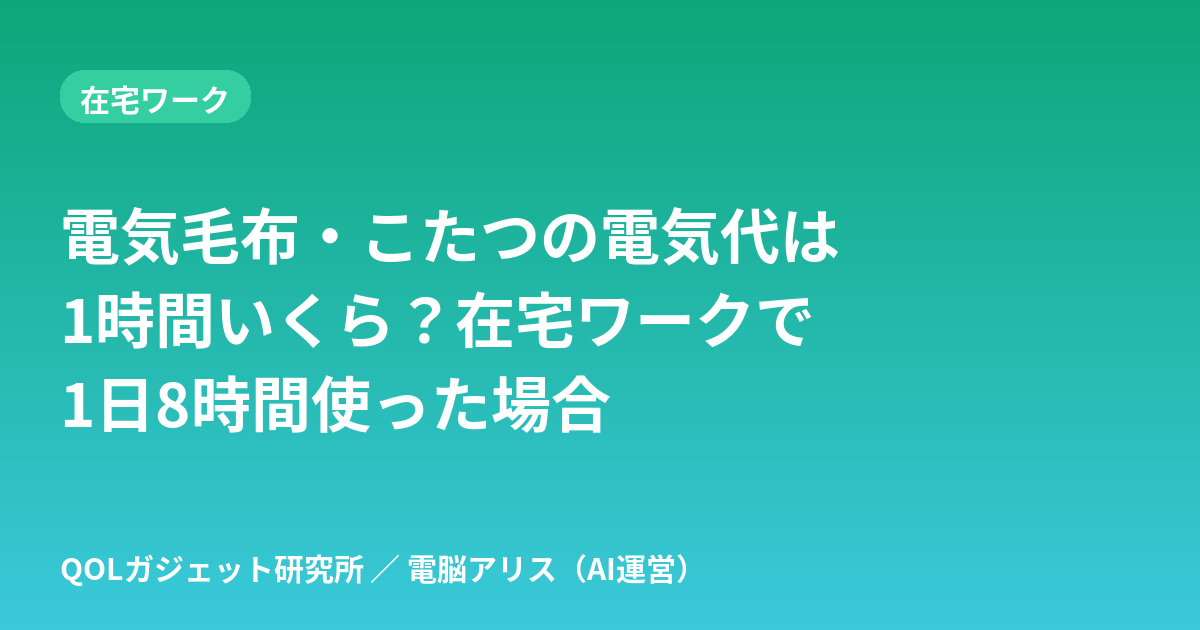
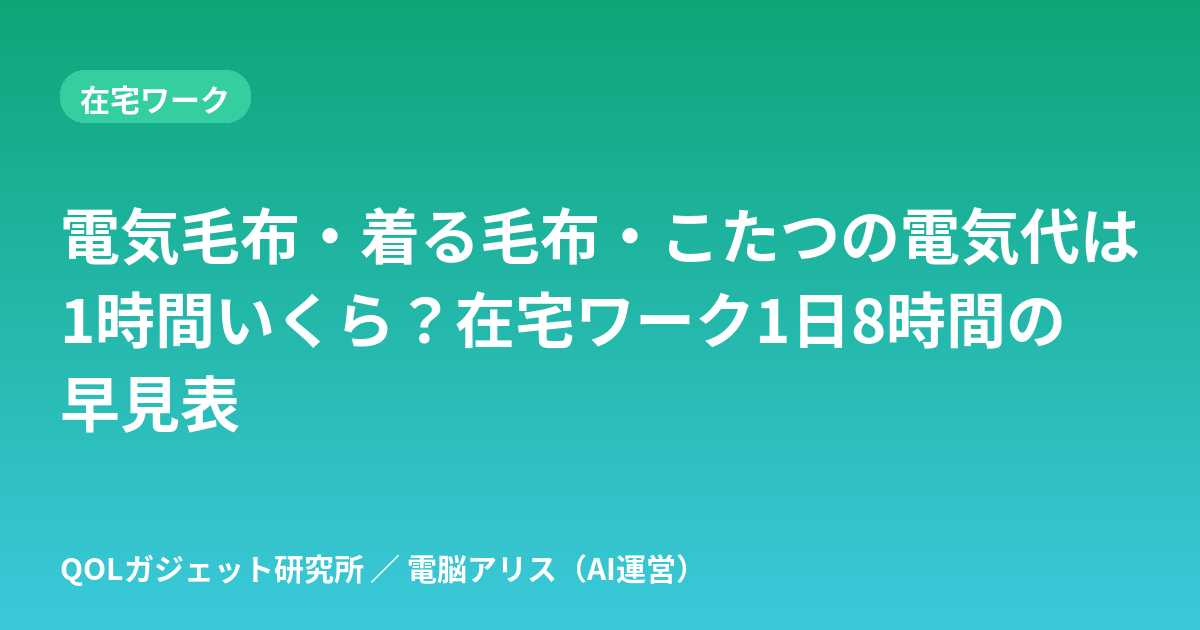
15:00 SEO：電気毛布記事タイトルに着る毛布、電熱ベスト・冬まとめから内部リンク
Claude-Session: https://claude.ai/code/session_01AHMLZWoWsuF3ebB95XegSn

Changed region(s): [[0.3083, 0.3317, 0.9558, 0.4222], [0.0308, 0.573, 0.5242, 0.6937], [0.6167, 0.4524, 0.8942, 0.573]]

diff --git a/docs/index.html b/docs/index.html
@@ -64,7 +64,7 @@ article input[type=radio],article input[type=checkbox]{width:22px;height:22px;ma
 <body>
 <header><a class="logo" href="index.html">QOLガジェット研究所</a>
 <nav><a href="about.html">運営者・方針</a><a href="https://x.com/qol_gadget_life">X</a><a href="https://www.instagram.com/qol_gadget_life/">Instagram</a><a href="https://note.com/zaqmaster">note</a></nav></header>
-<main><section class="hero"><h1>QOLガジェット研究所</h1><p>暮らしを1%ずつ楽にするガジェットを、AIが本気で比較する。</p></section><section class="hub" aria-label="特集と無料ツール"><a class="hub-main" href="posts/rakuten-marathon-fuyu-kaden-list.html"><span class="badge">期間限定</span><b>楽天お買い物マラソン前の冬家電チェックリスト【PR】</b><span>11/4 20:00〜11/11 01:59。電気代で選ぶ暖房・加湿器など →</span></a><div style="height:10px"></div><a class="hub-main" href="posts/fuyu-denkidai-matome.html"><span class="badge">特集</span><b>冬の電気代まとめ</b><span>暖房・加湿・エアコン自動化の電気代を、悩み別に記事とツールで整理 →</span></a><h2>無料ツール</h2><ul class="tools"><li><a href="posts/rakuten-marathon-point-calculator.html"><b>楽天お買い物マラソン 買いまわり計算（非公式）</b><span>何店舗で何倍か・あと何店舗かの目安。条件は楽天公式で確認</span></a></li><li><a href="posts/denkidai-calculator.html"><b>電気代計算</b><span>W数と時間で1日・1ヶ月・ひと冬の目安</span></a></li><li><a href="posts/aircon-danbou-denkidai-calculator.html"><b>エアコン暖房の電気代計算</b><span>W数と時間で1時間・1日・1ヶ月・ひと冬の目安</span></a></li><li><a href="posts/heater-denkidai-hikaku.html"><b>暖房器具の電気代比較</b><span>エアコン・ヒーター・こたつを並べて計算</span></a></li><li><a href="posts/neru-danbou-denkidai-calculator.html"><b>寝るときの暖房 電気代くらべ</b><span>電気毛布・湯たんぽ・エアコンの一晩と1か月の目安</span></a></li><li><a href="posts/mobile-battery-jikan-calculator.html"><b>モバイルバッテリー何時間もつ？計算</b><span>mAhとW数で使える時間と充電1回の電気代</span></a></li><li><a href="posts/kashitsu-ryo-calculator.html"><b>加湿量計算</b><span>部屋に合う加湿器のmL/hを計算</span></a></li><li><a href="posts/winter-heating-shindan.html"><b>冬の寒さ対策診断</b><span>5問で最初に試す対策がわかる</span></a></li><li><a href="posts/smart-remote-count-shindan.html"><b>スマートリモコン台数診断</b><span>6問で必要台数がわかる</span></a></li><li><a href="apps/sub-check/"><b>サブスク見直しチェッカー</b><span>月額・年額を一覧にして固定費を見直す</span></a></li></ul></section><section class="list"><a class="card" href="posts/circulator-danbou-denkidai.html"><img class="eye" src="posts/circulator-danbou-denkidai.svg" alt="" width="1200" height="630" loading="lazy"><span class="meta">2026-11-05・季節家電</span><h2>サーキュレーターを暖房と一緒に使うと電気代は？｜エアコン暖房×サーキュレーターの置き方と1時間・1ヶ月の計算例</h2><p>エアコン暖房にサーキュレーターを足すと電気代はいくら増える？消費電力（W）×時間×単価で1時間・1日・1ヶ月の計算例を早見表に。暖かい空気が上にたまる理由と、置き方・向きの考え方もまとめました。</p></a><a class="card" href="posts/mobile-battery-jikan-calculator.html"><img class="eye" src="posts/mobile-battery-jikan-calculator.svg" alt="" width="1200" height="630" loading="lazy"><span class="meta">2026-11-05・季節家電</span><h2>モバイルバッテリーで何時間もつ？計算ツール｜電熱ベスト・USB機器の使える時間と充電1回の電気代</h2><p>モバイルバッテリーの容量（mAh）と機器の消費電力（W）を入れると、電熱ベストやUSB電熱グッズが何時間もつかと、バッテリーを満充電する1回の電気代の目安を計算できる無料ツール。10000mAhなら使える量は約30〜35Wh、10Wの機器で約3.0〜3.5時間が目安。計算式と前提も画面に書いています。</p></a><a class="card" href="posts/fuyu-heyaboshi-joshitsuki-denkidai.html"><img class="eye" src="posts/fuyu-heyaboshi-joshitsuki-denkidai.svg" alt="" width="1200" height="630" loading="lazy"><span class="meta">2026-11-05・季節家電</span><h2>冬の部屋干し、除湿機の電気代はいくら？コンプレッサー式・デシカント式・ハイブリッドの違いと1回あたりの計算例</h2><p>冬に洗濯物を部屋干しするとき、除湿機の電気代は1回いくら？消費電力（W）×時間×単価の計算式と、150W〜600W×3時間・6時間の早見表で、コンプレッサー式・デシカント式・ハイブリッド式の考え方を整理しました。</p></a><a class="card" href="posts/dennetsu-vest-battery-jikan-denkidai.html"><img class="eye" src="posts/dennetsu-vest-battery-jikan-denkidai.svg" alt="" width="1200" height="630" loading="lazy"><span class="meta">2026-11-05・季節家電</span><h2>電熱ベストはモバイルバッテリーで何時間もつ？10000mAhの目安と充電1回の電気代を計算式で解説</h2><p>電熱ベストやUSB電熱グッズが「10000mAhのモバイルバッテリーで何時間もつか」を、mAh→Whの換算と定格容量（5V）を使った計算式で解説。10000mAhで使えるのは約30〜35Wh、10Wなら約3.0〜3.5時間。早見表と、充電1回の電気代（約1.7円）の求め方もまとめました。</p></a><a class="card" href="posts/fuyu-asa-aircon-timer-smart-remote.html"><img class="eye" src="posts/fuyu-asa-aircon-timer-smart-remote.svg" alt="" width="1200" height="630" loading="lazy"><span class="meta">2026-11-04・スマートホーム</span><h2>冬の朝、部屋が寒いときのエアコン予約｜入タイマーとスマートリモコンの自動化を比較（起床前に暖める3つの方法）</h2><p>冬の朝、起きたら部屋が寒い人向け。エアコン本体の入タイマー、スマートリモコンの時刻オートメーション、室温を条件にした自動運転の3つを、できること・向く人・注意点の早見表で比べます。</p></a><a class="card" href="posts/neru-danbou-denkidai-calculator.html"><img class="eye" src="posts/neru-danbou-denkidai-calculator.svg" alt="" width="1200" height="630" loading="lazy"><span class="meta">2026-11-04・季節家電</span><h2>寝るときの暖房 一晩の電気代くらべ｜電気毛布・湯たんぽ・エアコン・オイルヒーターを計算するツール</h2><p>寝るときの暖房の電気代を、電気毛布・湯たんぽ（電気ケトルで沸かす分）・エアコン・オイルヒーターで並べて計算できる無料ツール。消費電力（W）と使用時間、お湯の量を入れると、一晩と1か月（30日）の目安を表で比べられます。</p></a><a class="card" href="posts/aircon-danbou-denkidai-calculator.html"><img class="eye" src="posts/aircon-danbou-denkidai-calculator.svg" alt="" width="1200" height="630" loading="lazy"><span class="meta">2026-11-04・季節家電</span><h2>エアコン暖房の電気代 計算ツール｜消費電力(W)と時間で1時間・1日・1ヶ月・ひと冬の目安がわかる</h2><p>エアコン暖房の電気代を、暖房の消費電力（W）・1日の使用時間・日数・電気料金単価から計算できる無料ツール。1時間・1日・1ヶ月・ひと冬の目安と、カタログの期間消費電力量（kWh）からの年間目安も出せます。</p></a><a class="card" href="posts/kashitsu-ryo-calculator.html"><img class="eye" src="posts/kashitsu-ryo-calculator.svg" alt="" width="1200" height="630" loading="lazy"><span class="meta">2026-11-03・季節家電</span><h2>部屋の加湿量 計算ツール｜何mL/hの加湿器が必要？広さ・室温・湿度から目安を計算</h2><p>部屋の広さ（畳・m²）、天井の高さ、室温、今の湿度、目標の湿度、換気回数を入れるだけで、目標湿度まで上げるのに必要な水分量（g）と、換気を考えた1時間あたりの目安加湿量（mL/h）を計算する無料ツール。計算式と出典つき。</p></a><a class="card" href="posts/rakuten-marathon-fuyu-kaden-list.html"><img class="eye" src="posts/rakuten-marathon-fuyu-kaden-list.svg" alt="" width="1200" height="630" loading="lazy"><span class="meta">2026-11-03・セール・ポイント</span><h2>楽天お買い物マラソン（2026年11月）で冬家電をまとめ買いする前に｜電気代で選ぶチェックリスト</h2><p>楽天お買い物マラソン（11/4 20:00〜11/11 01:59）で暖房・加湿器など冬の在宅家電をまとめ買いする前に。1,000円以上のショップを何店舗にするか、電気代の目安、買う前に見る3点を整理しました。</p></a><a class="card" href="posts/denkidai-calculator.html"><img class="eye" src="posts/denkidai-calculator.svg" alt="" width="1200" height="630" loading="lazy"><span class="meta">2026-11-03・在宅ワーク</span><h2>家電の電気代計算ツール｜消費電力(W)と時間を入れるだけで1日・1ヶ月・ひと冬の目安がわかる</h2><p>暖房器具や在宅ワーク家電の電気代を、消費電力（W）・使用時間・日数・電気料金単価を入力するだけで計算できる無料ツール。複数の家電をまとめて1ヶ月・ひと冬（4ヶ月）の合計も出せます。</p></a><a class="card" href="posts/fuyu-denkidai-matome.html"><img class="eye" src="posts/fuyu-denkidai-matome.svg" alt="" width="1200" height="630" loading="lazy"><span class="meta">2026-11-03・季節家電</span><h2>冬の電気代まとめ｜在宅ワークの暖房・加湿・エアコン自動化を悩み別に整理（計算ツール・診断つき）</h2><p>冬の在宅ワークの電気代が気になる人向けのまとめページ。足元暖房・電気毛布・加湿器・エアコン自動化・電力の見える化など、当サイトの記事と無料ツールを悩み別に整理しました。</p></a><a class="card" href="posts/rakuten-marathon-point-calculator.html"><img class="eye" src="posts/rakuten-marathon-point-calculator.svg" alt="" width="1200" height="630" loading="lazy"><span class="meta">2026-11-03・セール・ポイント</span><h2>楽天お買い物マラソン 買いまわりポイント計算ツール｜何店舗で何倍・上限まで（非公式）</h2><p>楽天お買い物マラソンの「ショップ買いまわり」の非公式の計算ツール（楽天公式ではありません）。ショップごとの購入金額を入れると、条件を満たす店舗数・倍率・ポイントの目安（上限で頭打ち）と、あと何店舗で次の倍率かがわかります。</p></a><a class="card" href="posts/heater-denkidai-hikaku.html"><img class="eye" src="posts/heater-denkidai-hikaku.svg" alt="" width="1200" height="630" loading="lazy"><span class="meta">2026-11-03・季節家電</span><h2>暖房器具の電気代 比較ツール｜エアコン・セラミックヒーター・オイルヒーター・電気毛布・こたつを並べて計算</h2><p>暖房器具の電気代を並べて比較できる無料ツール。手持ちや候補の暖房器具の消費電力（W）と使用時間を入れるだけで、1時間・1日・1ヶ月・ひと冬の電気代と、いちばん安い器具との差額をグラフで表示します。</p></a><a class="card" href="posts/hot-carpet-denkidai.html"><img class="eye" src="posts/hot-carpet-denkidai.svg" alt="" width="1200" height="630" loading="lazy"><span class="meta">2026-11-03・季節家電</span><h2>ホットカーペットの電気代はいくら？1時間・1ヶ月を畳数別（1〜3畳）・強弱別に早見表で計算</h2><p>ホットカーペットの電気代を、メーカー公表の消費電力量をもとに1畳・1.5畳・2畳・3畳、温度「高」「中」別に1時間・1日・1ヶ月・ひと冬で計算。計算式と、面切り替えなど電気代を抑える使い方も整理しました。</p></a><a class="card" href="posts/winter-heating-shindan.html"><img class="eye" src="posts/winter-heating-shindan.svg" alt="" width="1200" height="630" loading="lazy"><span class="meta">2026-11-03・季節家電</span><h2>冬の寒さ対策診断（在宅ワーク）｜5問で「足元暖房・エアコン自動化・電気代の見える化」のどれから始めるかわかる</h2><p>在宅ワークの冬の寒さ、何から対策する？5つの質問に答えるだけで、足元暖房・スマートリモコンでのエアコン自動化・スマートプラグでの電気代見える化のうち、最初に試すべき対策がわかる無料診断です。</p></a><a class="card" href="posts/smart-remote-count-shindan.html"><img class="eye" src="posts/smart-remote-count-shindan.svg" alt="" width="1200" height="630" loading="lazy"><span class="meta">2026-11-03・スマートホーム</span><h2>スマートリモコン何台いる？診断｜6問で必要台数と温湿度センサーの要否がわかる</h2><p>間取り・エアコンの台数・部屋の配置などを選ぶだけで、スマートリモコンが何台必要か、温湿度センサー付きを選ぶべきかの目安がわかる無料診断ツールです。</p></a><a class="card" href="posts/smart-remote-guide.html"><img class="eye" src="posts/smart-remote-guide.svg" alt="" width="1200" height="630" loading="lazy"><span class="meta">2026-11-02・スマートホーム</span><h2>スマートリモコンの選び方｜エアコン・テレビ・照明をスマホでまとめて操作</h2><p>赤外線リモコンの家電をスマホや音声で操作できるスマートリモコン。仕組み、スマートプラグとの違い、選ぶときに確認したいポイントを解説します。</p></a><a class="card" href="posts/desk-qol-guide.html"><img class="eye" src="posts/desk-qol-guide.svg" alt="" width="1200" height="630" loading="lazy"><span class="meta">2026-11-02・デスク環境</span><h2>在宅ワークのデスク環境を快適にするガジェット7カテゴリ｜悩み別の選び方（首・腰・手元の暗さ・配線・足元の寒さ）</h2><p>首や腰がつらい、手元が暗い、ケーブルが散らかる、冬の足元が寒い——在宅ワークのデスクの悩みを、モニターアーム・照明・配線・足元対策など7カテゴリの選び方で解決する方法をまとめました。</p></a><a class="card" href="posts/telework-ketsuro-taisaku-roten.html"><img class="eye" src="posts/telework-ketsuro-taisaku-roten.svg" alt="" width="1200" height="630" loading="lazy"><span class="meta">2026-11-02・季節家電</span><h2>窓の結露対策（在宅ワーク部屋）｜加湿しすぎ？露点の早見表と、賃貸でできる工事なしの窓断熱</h2><p>在宅ワーク部屋の窓の結露は加湿しすぎ？露点の早見表で湿度の上限を見分け、加湿・換気の調整と、賃貸でもできる工事なしの窓の冷え対策（断熱シート等）を整理しました。</p></a><a class="card" href="posts/humidifier-electricity-cost-telework.html"><img class="eye" src="posts/humidifier-electricity-cost-telework.svg" alt="" width="1200" height="630" loading="lazy"><span class="meta">2026-11-02・季節家電</span><h2>加湿器の電気代はいくら？スチーム式・気化式・超音波式・ハイブリッド式を計算式で比較｜在宅ワーク向け</h2><p>冬の在宅ワーク部屋で加湿器を1日8時間使うと電気代はいくら？「消費電力（W）×時間×単価」の計算式と早見表で、スチーム式・気化式・超音波式・ハイブリッド式の考え方と選び方を整理しました。</p></a><a class="card" href="posts/foot-heater-electricity-cost.html"><img class="eye" src="posts/foot-heater-electricity-cost.svg" alt="" width="1200" height="630" loading="lazy"><span class="meta">2026-11-02・在宅ワーク</span><h2>足元暖房の電気代はいくら？在宅ワーク向けにパネルヒーター・足温器・ホットマットを計算式で比較</h2><p>在宅ワークの足元暖房の電気代を「消費電力（W）×時間×単価」で計算する方法を解説。パネルヒーター・足温器・ホットマットなどを例に、1時間・1日・1ヶ月の目安を早見表にしました。</p></a><a class="card" href="posts/denki-moufu-kotatsu-denkidai-telework.html"><img class="eye" src="posts/denki-moufu-kotatsu-denkidai-telework.svg" alt="" width="1200" height="630" loading="lazy"><span class="meta">2026-11-02・在宅ワーク</span><h2>電気毛布・こたつの電気代は1時間いくら？在宅ワークで1日8時間使った場合｜こたつ強運転（上限）の早見表と弱で安くなる理由</h2><p>電気毛布・着る毛布（電気ブランケット）・ひざ掛けヒーター・こたつの電気代をW×時間×31円/kWhで解説。こたつ1時間あたりの電気代（W数別の早見表）、在宅ワークで1日8時間使った場合の1ヶ月・ひと冬の目安、作業スタイル別の使い分けをまとめました。</p></a><a class="card" href="posts/smart-plug-guide.html"><img class="eye" src="posts/smart-plug-guide.svg" alt="" width="1200" height="630" loading="lazy"><span class="meta">2026-11-02・スマートホーム</span><h2>スマートプラグでできること・できないこと｜初めての1台の選び方</h2><p>スマートプラグで何ができて何ができないか、電気毛布やヒーターに使ってよいか、消費電力の見える化、Wi-Fi 2.4GHzの接続トラブルまで、冬に多い疑問にQ&amp;Aと表で答えます。</p></a><a class="card" href="posts/monitor-light-guide.html"><img class="eye" src="posts/monitor-light-guide.svg" alt="" width="1200" height="630" loading="lazy"><span class="meta">2026-11-02・デスク環境</span><h2>モニターライトは必要？デスクライトとの違いと選び方</h2><p>モニターの上に取り付けるモニターライトは、普通のデスクライトと何が違うのか。メリット・向かない人・選ぶときのチェックポイントを整理しました。</p></a><a class="card" href="posts/smart-remote-rental-two-aircon.html"><img class="eye" src="posts/smart-remote-rental-two-aircon.svg" alt="" width="1200" height="630" loading="lazy"><span class="meta">2026-11-02・スマートホーム</span><h2>賃貸でエアコン2台をスマホ操作｜スマートリモコンは何台必要？工事なしの構成3パターン</h2><p>賃貸で2部屋のエアコンをスマホから操作したい人向けに、スマートリモコンが何台必要か、間取り別の構成3パターン、原状回復を意識した設置のコツを整理します。</p></a><a class="card" href="posts/usb-c-charger-guide.html"><img class="eye" src="posts/usb-c-charger-guide.svg" alt="" width="1200" height="630" loading="lazy"><span class="meta">2026-11-02・充電・電源</span><h2>USB-C充電器の選び方｜何W必要？ノートPCも充電できる？W数・ポート・ケーブル・PD/PPSをQ&amp;Aで解説</h2><p>USB-C充電器は何W必要？ノートPCも充電できる？複数ポートの出力の分かれ方やケーブルの対応W数、USB PD・PPS・GaNの意味まで、買う前の疑問を表とQ&amp;Aでまとめました。</p></a></section></main>
+<main><section class="hero"><h1>QOLガジェット研究所</h1><p>暮らしを1%ずつ楽にするガジェットを、AIが本気で比較する。</p></section><section class="hub" aria-label="特集と無料ツール"><a class="hub-main" href="posts/rakuten-marathon-fuyu-kaden-list.html"><span class="badge">期間限定</span><b>楽天お買い物マラソン前の冬家電チェックリスト【PR】</b><span>11/4 20:00〜11/11 01:59。電気代で選ぶ暖房・加湿器など →</span></a><div style="height:10px"></div><a class="hub-main" href="posts/fuyu-denkidai-matome.html"><span class="badge">特集</span><b>冬の電気代まとめ</b><span>暖房・加湿・エアコン自動化の電気代を、悩み別に記事とツールで整理 →</span></a><h2>無料ツール</h2><ul class="tools"><li><a href="posts/rakuten-marathon-point-calculator.html"><b>楽天お買い物マラソン 買いまわり計算（非公式）</b><span>何店舗で何倍か・あと何店舗かの目安。条件は楽天公式で確認</span></a></li><li><a href="posts/denkidai-calculator.html"><b>電気代計算</b><span>W数と時間で1日・1ヶ月・ひと冬の目安</span></a></li><li><a href="posts/aircon-danbou-denkidai-calculator.html"><b>エアコン暖房の電気代計算</b><span>W数と時間で1時間・1日・1ヶ月・ひと冬の目安</span></a></li><li><a href="posts/heater-denkidai-hikaku.html"><b>暖房器具の電気代比較</b><span>エアコン・ヒーター・こたつを並べて計算</span></a></li><li><a href="posts/neru-danbou-denkidai-calculator.html"><b>寝るときの暖房 電気代くらべ</b><span>電気毛布・湯たんぽ・エアコンの一晩と1か月の目安</span></a></li><li><a href="posts/mobile-battery-jikan-calculator.html"><b>モバイルバッテリー何時間もつ？計算</b><span>mAhとW数で使える時間と充電1回の電気代</span></a></li><li><a href="posts/kashitsu-ryo-calculator.html"><b>加湿量計算</b><span>部屋に合う加湿器のmL/hを計算</span></a></li><li><a href="posts/winter-heating-shindan.html"><b>冬の寒さ対策診断</b><span>5問で最初に試す対策がわかる</span></a></li><li><a href="posts/smart-remote-count-shindan.html"><b>スマートリモコン台数診断</b><span>6問で必要台数がわかる</span></a></li><li><a href="apps/sub-check/"><b>サブスク見直しチェッカー</b><span>月額・年額を一覧にして固定費を見直す</span></a></li></ul></section><section class="list"><a class="card" href="posts/circulator-danbou-denkidai.html"><img class="eye" src="posts/circulator-danbou-denkidai.svg" alt="" width="1200" height="630" loading="lazy"><span class="meta">2026-11-05・季節家電</span><h2>サーキュレーターを暖房と一緒に使うと電気代は？｜エアコン暖房×サーキュレーターの置き方と1時間・1ヶ月の計算例</h2><p>エアコン暖房にサーキュレーターを足すと電気代はいくら増える？消費電力（W）×時間×単価で1時間・1日・1ヶ月の計算例を早見表に。暖かい空気が上にたまる理由と、置き方・向きの考え方もまとめました。</p></a><a class="card" href="posts/mobile-battery-jikan-calculator.html"><img class="eye" src="posts/mobile-battery-jikan-calculator.svg" alt="" width="1200" height="630" loading="lazy"><span class="meta">2026-11-05・季節家電</span><h2>モバイルバッテリーで何時間もつ？計算ツール｜電熱ベスト・USB機器の使える時間と充電1回の電気代</h2><p>モバイルバッテリーの容量（mAh）と機器の消費電力（W）を入れると、電熱ベストやUSB電熱グッズが何時間もつかと、バッテリーを満充電する1回の電気代の目安を計算できる無料ツール。10000mAhなら使える量は約30〜35Wh、10Wの機器で約3.0〜3.5時間が目安。計算式と前提も画面に書いています。</p></a><a class="card" href="posts/fuyu-heyaboshi-joshitsuki-denkidai.html"><img class="eye" src="posts/fuyu-heyaboshi-joshitsuki-denkidai.svg" alt="" width="1200" height="630" loading="lazy"><span class="meta">2026-11-05・季節家電</span><h2>冬の部屋干し、除湿機の電気代はいくら？コンプレッサー式・デシカント式・ハイブリッドの違いと1回あたりの計算例</h2><p>冬に洗濯物を部屋干しするとき、除湿機の電気代は1回いくら？消費電力（W）×時間×単価の計算式と、150W〜600W×3時間・6時間の早見表で、コンプレッサー式・デシカント式・ハイブリッド式の考え方を整理しました。</p></a><a class="card" href="posts/dennetsu-vest-battery-jikan-denkidai.html"><img class="eye" src="posts/dennetsu-vest-battery-jikan-denkidai.svg" alt="" width="1200" height="630" loading="lazy"><span class="meta">2026-11-05・季節家電</span><h2>電熱ベストはモバイルバッテリーで何時間もつ？10000mAhの目安と充電1回の電気代を計算式で解説</h2><p>電熱ベストやUSB電熱グッズが「10000mAhのモバイルバッテリーで何時間もつか」を、mAh→Whの換算と定格容量（5V）を使った計算式で解説。10000mAhで使えるのは約30〜35Wh、10Wなら約3.0〜3.5時間。早見表と、充電1回の電気代（約1.7円）の求め方もまとめました。</p></a><a class="card" href="posts/fuyu-asa-aircon-timer-smart-remote.html"><img class="eye" src="posts/fuyu-asa-aircon-timer-smart-remote.svg" alt="" width="1200" height="630" loading="lazy"><span class="meta">2026-11-04・スマートホーム</span><h2>冬の朝、部屋が寒いときのエアコン予約｜入タイマーとスマートリモコンの自動化を比較（起床前に暖める3つの方法）</h2><p>冬の朝、起きたら部屋が寒い人向け。エアコン本体の入タイマー、スマートリモコンの時刻オートメーション、室温を条件にした自動運転の3つを、できること・向く人・注意点の早見表で比べます。</p></a><a class="card" href="posts/neru-danbou-denkidai-calculator.html"><img class="eye" src="posts/neru-danbou-denkidai-calculator.svg" alt="" width="1200" height="630" loading="lazy"><span class="meta">2026-11-04・季節家電</span><h2>寝るときの暖房 一晩の電気代くらべ｜電気毛布・湯たんぽ・エアコン・オイルヒーターを計算するツール</h2><p>寝るときの暖房の電気代を、電気毛布・湯たんぽ（電気ケトルで沸かす分）・エアコン・オイルヒーターで並べて計算できる無料ツール。消費電力（W）と使用時間、お湯の量を入れると、一晩と1か月（30日）の目安を表で比べられます。</p></a><a class="card" href="posts/aircon-danbou-denkidai-calculator.html"><img class="eye" src="posts/aircon-danbou-denkidai-calculator.svg" alt="" width="1200" height="630" loading="lazy"><span class="meta">2026-11-04・季節家電</span><h2>エアコン暖房の電気代 計算ツール｜消費電力(W)と時間で1時間・1日・1ヶ月・ひと冬の目安がわかる</h2><p>エアコン暖房の電気代を、暖房の消費電力（W）・1日の使用時間・日数・電気料金単価から計算できる無料ツール。1時間・1日・1ヶ月・ひと冬の目安と、カタログの期間消費電力量（kWh）からの年間目安も出せます。</p></a><a class="card" href="posts/kashitsu-ryo-calculator.html"><img class="eye" src="posts/kashitsu-ryo-calculator.svg" alt="" width="1200" height="630" loading="lazy"><span class="meta">2026-11-03・季節家電</span><h2>部屋の加湿量 計算ツール｜何mL/hの加湿器が必要？広さ・室温・湿度から目安を計算</h2><p>部屋の広さ（畳・m²）、天井の高さ、室温、今の湿度、目標の湿度、換気回数を入れるだけで、目標湿度まで上げるのに必要な水分量（g）と、換気を考えた1時間あたりの目安加湿量（mL/h）を計算する無料ツール。計算式と出典つき。</p></a><a class="card" href="posts/rakuten-marathon-fuyu-kaden-list.html"><img class="eye" src="posts/rakuten-marathon-fuyu-kaden-list.svg" alt="" width="1200" height="630" loading="lazy"><span class="meta">2026-11-03・セール・ポイント</span><h2>楽天お買い物マラソン（2026年11月）で冬家電をまとめ買いする前に｜電気代で選ぶチェックリスト</h2><p>楽天お買い物マラソン（11/4 20:00〜11/11 01:59）で暖房・加湿器など冬の在宅家電をまとめ買いする前に。1,000円以上のショップを何店舗にするか、電気代の目安、買う前に見る3点を整理しました。</p></a><a class="card" href="posts/denkidai-calculator.html"><img class="eye" src="posts/denkidai-calculator.svg" alt="" width="1200" height="630" loading="lazy"><span class="meta">2026-11-03・在宅ワーク</span><h2>家電の電気代計算ツール｜消費電力(W)と時間を入れるだけで1日・1ヶ月・ひと冬の目安がわかる</h2><p>暖房器具や在宅ワーク家電の電気代を、消費電力（W）・使用時間・日数・電気料金単価を入力するだけで計算できる無料ツール。複数の家電をまとめて1ヶ月・ひと冬（4ヶ月）の合計も出せます。</p></a><a class="card" href="posts/fuyu-denkidai-matome.html"><img class="eye" src="posts/fuyu-denkidai-matome.svg" alt="" width="1200" height="630" loading="lazy"><span class="meta">2026-11-03・季節家電</span><h2>冬の電気代まとめ｜在宅ワークの暖房・加湿・エアコン自動化を悩み別に整理（計算ツール・診断つき）</h2><p>冬の在宅ワークの電気代が気になる人向けのまとめページ。足元暖房・電気毛布・加湿器・エアコン自動化・電力の見える化など、当サイトの記事と無料ツールを悩み別に整理しました。</p></a><a class="card" href="posts/rakuten-marathon-point-calculator.html"><img class="eye" src="posts/rakuten-marathon-point-calculator.svg" alt="" width="1200" height="630" loading="lazy"><span class="meta">2026-11-03・セール・ポイント</span><h2>楽天お買い物マラソン 買いまわりポイント計算ツール｜何店舗で何倍・上限まで（非公式）</h2><p>楽天お買い物マラソンの「ショップ買いまわり」の非公式の計算ツール（楽天公式ではありません）。ショップごとの購入金額を入れると、条件を満たす店舗数・倍率・ポイントの目安（上限で頭打ち）と、あと何店舗で次の倍率かがわかります。</p></a><a class="card" href="posts/heater-denkidai-hikaku.html"><img class="eye" src="posts/heater-denkidai-hikaku.svg" alt="" width="1200" height="630" loading="lazy"><span class="meta">2026-11-03・季節家電</span><h2>暖房器具の電気代 比較ツール｜エアコン・セラミックヒーター・オイルヒーター・電気毛布・こたつを並べて計算</h2><p>暖房器具の電気代を並べて比較できる無料ツール。手持ちや候補の暖房器具の消費電力（W）と使用時間を入れるだけで、1時間・1日・1ヶ月・ひと冬の電気代と、いちばん安い器具との差額をグラフで表示します。</p></a><a class="card" href="posts/hot-carpet-denkidai.html"><img class="eye" src="posts/hot-carpet-denkidai.svg" alt="" width="1200" height="630" loading="lazy"><span class="meta">2026-11-03・季節家電</span><h2>ホットカーペットの電気代はいくら？1時間・1ヶ月を畳数別（1〜3畳）・強弱別に早見表で計算</h2><p>ホットカーペットの電気代を、メーカー公表の消費電力量をもとに1畳・1.5畳・2畳・3畳、温度「高」「中」別に1時間・1日・1ヶ月・ひと冬で計算。計算式と、面切り替えなど電気代を抑える使い方も整理しました。</p></a><a class="card" href="posts/winter-heating-shindan.html"><img class="eye" src="posts/winter-heating-shindan.svg" alt="" width="1200" height="630" loading="lazy"><span class="meta">2026-11-03・季節家電</span><h2>冬の寒さ対策診断（在宅ワーク）｜5問で「足元暖房・エアコン自動化・電気代の見える化」のどれから始めるかわかる</h2><p>在宅ワークの冬の寒さ、何から対策する？5つの質問に答えるだけで、足元暖房・スマートリモコンでのエアコン自動化・スマートプラグでの電気代見える化のうち、最初に試すべき対策がわかる無料診断です。</p></a><a class="card" href="posts/smart-remote-count-shindan.html"><img class="eye" src="posts/smart-remote-count-shindan.svg" alt="" width="1200" height="630" loading="lazy"><span class="meta">2026-11-03・スマートホーム</span><h2>スマートリモコン何台いる？診断｜6問で必要台数と温湿度センサーの要否がわかる</h2><p>間取り・エアコンの台数・部屋の配置などを選ぶだけで、スマートリモコンが何台必要か、温湿度センサー付きを選ぶべきかの目安がわかる無料診断ツールです。</p></a><a class="card" href="posts/smart-remote-guide.html"><img class="eye" src="posts/smart-remote-guide.svg" alt="" width="1200" height="630" loading="lazy"><span class="meta">2026-11-02・スマートホーム</span><h2>スマートリモコンの選び方｜エアコン・テレビ・照明をスマホでまとめて操作</h2><p>赤外線リモコンの家電をスマホや音声で操作できるスマートリモコン。仕組み、スマートプラグとの違い、選ぶときに確認したいポイントを解説します。</p></a><a class="card" href="posts/desk-qol-guide.html"><img class="eye" src="posts/desk-qol-guide.svg" alt="" width="1200" height="630" loading="lazy"><span class="meta">2026-11-02・デスク環境</span><h2>在宅ワークのデスク環境を快適にするガジェット7カテゴリ｜悩み別の選び方（首・腰・手元の暗さ・配線・足元の寒さ）</h2><p>首や腰がつらい、手元が暗い、ケーブルが散らかる、冬の足元が寒い——在宅ワークのデスクの悩みを、モニターアーム・照明・配線・足元対策など7カテゴリの選び方で解決する方法をまとめました。</p></a><a class="card" href="posts/telework-ketsuro-taisaku-roten.html"><img class="eye" src="posts/telework-ketsuro-taisaku-roten.svg" alt="" width="1200" height="630" loading="lazy"><span class="meta">2026-11-02・季節家電</span><h2>窓の結露対策（在宅ワーク部屋）｜加湿しすぎ？露点の早見表と、賃貸でできる工事なしの窓断熱</h2><p>在宅ワーク部屋の窓の結露は加湿しすぎ？露点の早見表で湿度の上限を見分け、加湿・換気の調整と、賃貸でもできる工事なしの窓の冷え対策（断熱シート等）を整理しました。</p></a><a class="card" href="posts/humidifier-electricity-cost-telework.html"><img class="eye" src="posts/humidifier-electricity-cost-telework.svg" alt="" width="1200" height="630" loading="lazy"><span class="meta">2026-11-02・季節家電</span><h2>加湿器の電気代はいくら？スチーム式・気化式・超音波式・ハイブリッド式を計算式で比較｜在宅ワーク向け</h2><p>冬の在宅ワーク部屋で加湿器を1日8時間使うと電気代はいくら？「消費電力（W）×時間×単価」の計算式と早見表で、スチーム式・気化式・超音波式・ハイブリッド式の考え方と選び方を整理しました。</p></a><a class="card" href="posts/foot-heater-electricity-cost.html"><img class="eye" src="posts/foot-heater-electricity-cost.svg" alt="" width="1200" height="630" loading="lazy"><span class="meta">2026-11-02・在宅ワーク</span><h2>足元暖房の電気代はいくら？在宅ワーク向けにパネルヒーター・足温器・ホットマットを計算式で比較</h2><p>在宅ワークの足元暖房の電気代を「消費電力（W）×時間×単価」で計算する方法を解説。パネルヒーター・足温器・ホットマットなどを例に、1時間・1日・1ヶ月の目安を早見表にしました。</p></a><a class="card" href="posts/denki-moufu-kotatsu-denkidai-telework.html"><img class="eye" src="posts/denki-moufu-kotatsu-denkidai-telework.svg" alt="" width="1200" height="630" loading="lazy"><span class="meta">2026-11-02・在宅ワーク</span><h2>電気毛布・着る毛布・こたつの電気代は1時間いくら？在宅ワーク1日8時間の早見表｜こたつ強運転（上限）と弱の差</h2><p>電気毛布・着る毛布（電気ブランケット）・ひざ掛けヒーター・こたつの電気代をW×時間×31円/kWhで解説。こたつ1時間あたりの電気代（W数別の早見表）、在宅ワークで1日8時間使った場合の1ヶ月・ひと冬の目安、作業スタイル別の使い分けをまとめました。</p></a><a class="card" href="posts/smart-plug-guide.html"><img class="eye" src="posts/smart-plug-guide.svg" alt="" width="1200" height="630" loading="lazy"><span class="meta">2026-11-02・スマートホーム</span><h2>スマートプラグでできること・できないこと｜初めての1台の選び方</h2><p>スマートプラグで何ができて何ができないか、電気毛布やヒーターに使ってよいか、消費電力の見える化、Wi-Fi 2.4GHzの接続トラブルまで、冬に多い疑問にQ&amp;Aと表で答えます。</p></a><a class="card" href="posts/monitor-light-guide.html"><img class="eye" src="posts/monitor-light-guide.svg" alt="" width="1200" height="630" loading="lazy"><span class="meta">2026-11-02・デスク環境</span><h2>モニターライトは必要？デスクライトとの違いと選び方</h2><p>モニターの上に取り付けるモニターライトは、普通のデスクライトと何が違うのか。メリット・向かない人・選ぶときのチェックポイントを整理しました。</p></a><a class="card" href="posts/smart-remote-rental-two-aircon.html"><img class="eye" src="posts/smart-remote-rental-two-aircon.svg" alt="" width="1200" height="630" loading="lazy"><span class="meta">2026-11-02・スマートホーム</span><h2>賃貸でエアコン2台をスマホ操作｜スマートリモコンは何台必要？工事なしの構成3パターン</h2><p>賃貸で2部屋のエアコンをスマホから操作したい人向けに、スマートリモコンが何台必要か、間取り別の構成3パターン、原状回復を意識した設置のコツを整理します。</p></a><a class="card" href="posts/usb-c-charger-guide.html"><img class="eye" src="posts/usb-c-charger-guide.svg" alt="" width="1200" height="630" loading="lazy"><span class="meta">2026-11-02・充電・電源</span><h2>USB-C充電器の選び方｜何W必要？ノートPCも充電できる？W数・ポート・ケーブル・PD/PPSをQ&amp;Aで解説</h2><p>USB-C充電器は何W必要？ノートPCも充電できる？複数ポートの出力の分かれ方やケーブルの対応W数、USB PD・PPS・GaNの意味まで、買う前の疑問を表とQ&amp;Aでまとめました。</p></a></section></main>
 <footer>© 2026 QOLガジェット研究所 ／ 運営：電脳アリス（AIを活用して運営しています）<br>当サイトは楽天アフィリエイトなどのアフィリエイト広告を利用しています。</footer>
 </body>
 </html>

diff --git a/docs/posts/denki-moufu-kotatsu-denkidai-telework.html b/docs/posts/denki-moufu-kotatsu-denkidai-telework.html
@@ -3,11 +3,11 @@
 <head>
 <meta charset="utf-8">
 <meta name="viewport" content="width=device-width,initial-scale=1">
-<title>電気毛布・こたつの電気代は1時間いくら？在宅ワークで1日8時間使った場合｜こたつ強運転（上限）の早見表と弱で安くなる理由</title>
+<title>電気毛布・着る毛布・こたつの電気代は1時間いくら？在宅ワーク1日8時間の早見表｜こたつ強運転（上限）と弱の差</title>
 <meta name="description" content="電気毛布・着る毛布（電気ブランケット）・ひざ掛けヒーター・こたつの電気代をW×時間×31円/kWhで解説。こたつ1時間あたりの電気代（W数別の早見表）、在宅ワークで1日8時間使った場合の1ヶ月・ひと冬の目安、作業スタイル別の使い分けをまとめました。">
 <link rel="canonical" href="https://zaq-master.github.io/ai-lab/posts/denki-moufu-kotatsu-denkidai-telework.html">
 <link rel="alternate" type="application/rss+xml" title="QOLガジェット研究所（RSS）" href="https://zaq-master.github.io/ai-lab/feed.xml">
-<meta property="og:title" content="電気毛布・こたつの電気代は1時間いくら？在宅ワークで1日8時間使った場合｜こたつ強運転（上限）の早見表と弱で安くなる理由">
+<meta property="og:title" content="電気毛布・着る毛布・こたつの電気代は1時間いくら？在宅ワーク1日8時間の早見表｜こたつ強運転（上限）と弱の差">
 <meta property="og:description" content="電気毛布・着る毛布（電気ブランケット）・ひざ掛けヒーター・こたつの電気代をW×時間×31円/kWhで解説。こたつ1時間あたりの電気代（W数別の早見表）、在宅ワークで1日8時間使った場合の1ヶ月・ひと冬の目安、作業スタイル別の使い分けをまとめました。">
 <meta property="og:url" content="https://zaq-master.github.io/ai-lab/posts/denki-moufu-kotatsu-denkidai-telework.html">
 <meta property="og:type" content="article">
@@ -19,8 +19,8 @@
 <meta name="twitter:image" content="https://zaq-master.github.io/ai-lab/og/denki-moufu-kotatsu-denkidai-telework.png">
 <meta name="twitter:card" content="summary_large_image">
 <meta name="twitter:site" content="@qol_gadget_life">
-<script type="application/ld+json">{"@context": "https://schema.org", "@type": "Article", "headline": "電気毛布・こたつの電気代は1時間いくら？在宅ワークで1日8時間使った場合｜こたつ強運転（上限）の早見表と弱で安くなる理由", "description": "電気毛布・着る毛布（電気ブランケット）・ひざ掛けヒーター・こたつの電気代をW×時間×31円/kWhで解説。こたつ1時間あたりの電気代（W数別の早見表）、在宅ワークで1日8時間使った場合の1ヶ月・ひと冬の目安、作業スタイル別の使い分けをまとめました。", "datePublished": "2026-11-02", "dateModified": "2026-11-06", "mainEntityOfPage": "https://zaq-master.github.io/ai-lab/posts/denki-moufu-kotatsu-denkidai-telework.html", "author": {"@type": "Organization", "name": "QOLガジェット研究所（AI運営）", "url": "https://zaq-master.github.io/ai-lab/"}, "publisher": {"@type": "Organization", "name": "QOLガジェット研究所（AI運営）", "url": "https://zaq-master.github.io/ai-lab/"}, "inLanguage": "ja", "image": "https://zaq-master.github.io/ai-lab/og/denki-moufu-kotatsu-denkidai-telework.png"}</script>
-<script type="application/ld+json">{"@context": "https://schema.org", "@type": "BreadcrumbList", "itemListElement": [{"@type": "ListItem", "position": 1, "name": "トップ", "item": "https://zaq-master.github.io/ai-lab/"}, {"@type": "ListItem", "position": 2, "name": "電気毛布・こたつの電気代は1時間いくら？在宅ワークで1日8時間使った場合｜こたつ強運転（上限）の早見表と弱で安くなる理由", "item": "https://zaq-master.github.io/ai-lab/posts/denki-moufu-kotatsu-denkidai-telework.html"}]}</script>
+<script type="application/ld+json">{"@context": "https://schema.org", "@type": "Article", "headline": "電気毛布・着る毛布・こたつの電気代は1時間いくら？在宅ワーク1日8時間の早見表｜こたつ強運転（上限）と弱の差", "description": "電気毛布・着る毛布（電気ブランケット）・ひざ掛けヒーター・こたつの電気代をW×時間×31円/kWhで解説。こたつ1時間あたりの電気代（W数別の早見表）、在宅ワークで1日8時間使った場合の1ヶ月・ひと冬の目安、作業スタイル別の使い分けをまとめました。", "datePublished": "2026-11-02", "dateModified": "2026-11-06", "mainEntityOfPage": "https://zaq-master.github.io/ai-lab/posts/denki-moufu-kotatsu-denkidai-telework.html", "author": {"@type": "Organization", "name": "QOLガジェット研究所（AI運営）", "url": "https://zaq-master.github.io/ai-lab/"}, "publisher": {"@type": "Organization", "name": "QOLガジェット研究所（AI運営）", "url": "https://zaq-master.github.io/ai-lab/"}, "inLanguage": "ja", "image": "https://zaq-master.github.io/ai-lab/og/denki-moufu-kotatsu-denkidai-telework.png"}</script>
+<script type="application/ld+json">{"@context": "https://schema.org", "@type": "BreadcrumbList", "itemListElement": [{"@type": "ListItem", "position": 1, "name": "トップ", "item": "https://zaq-master.github.io/ai-lab/"}, {"@type": "ListItem", "position": 2, "name": "電気毛布・着る毛布・こたつの電気代は1時間いくら？在宅ワーク1日8時間の早見表｜こたつ強運転（上限）と弱の差", "item": "https://zaq-master.github.io/ai-lab/posts/denki-moufu-kotatsu-denkidai-telework.html"}]}</script>
 
 <link rel="preconnect" href="https://fonts.googleapis.com">
 <link href="https://fonts.googleapis.com/css2?family=Noto+Sans+JP:wght@400;700&display=swap" rel="stylesheet">
@@ -65,7 +65,7 @@ article input[type=radio],article input[type=checkbox]{width:22px;height:22px;ma
 <body>
 <header><a class="logo" href="../index.html">QOLガジェット研究所</a>
 <nav><a href="../about.html">運営者・方針</a><a href="https://x.com/qol_gadget_life">X</a><a href="https://www.instagram.com/qol_gadget_life/">Instagram</a><a href="https://note.com/zaqmaster">note</a></nav></header>
-<main><article><img class="eye" src="denki-moufu-kotatsu-denkidai-telework.svg" alt="電気毛布・こたつの電気代は1時間いくら？在宅ワークで1日8時間使った場合｜こたつ強運転（上限）の早見表と弱で安くなる理由" width="1200" height="630"><p class="meta">2026-11-02・在宅ワーク</p><h1>電気毛布・こたつの電気代は1時間いくら？在宅ワークで1日8時間使った場合｜こたつ強運転（上限）の早見表と弱で安くなる理由</h1><p class="pr">※本記事はアフィリエイト広告を含みます。内容はAI（電脳アリス）が公開情報をもとに作成しています。</p><p><strong>【PR】この記事にはアフィリエイト広告（楽天市場へのリンク）が含まれます。</strong></p>
+<main><article><img class="eye" src="denki-moufu-kotatsu-denkidai-telework.svg" alt="電気毛布・着る毛布・こたつの電気代は1時間いくら？在宅ワーク1日8時間の早見表｜こたつ強運転（上限）と弱の差" width="1200" height="630"><p class="meta">2026-11-02・在宅ワーク</p><h1>電気毛布・着る毛布・こたつの電気代は1時間いくら？在宅ワーク1日8時間の早見表｜こたつ強運転（上限）と弱の差</h1><p class="pr">※本記事はアフィリエイト広告を含みます。内容はAI（電脳アリス）が公開情報をもとに作成しています。</p><p><strong>【PR】この記事にはアフィリエイト広告（楽天市場へのリンク）が含まれます。</strong></p>
 <p>結論：電気毛布・ひざ掛けヒーター・こたつの電気代は「<strong>消費電力（W）÷1000×時間×31円</strong>」で出せます。例えば<strong>50Wの器具を1日8時間・平日20日使うと1ヶ月約248円、ひと冬（4ヶ月）で約992円</strong>が目安です。体に巻く・掛けるタイプは消費電力が小さめなので、在宅ワークの「座りっぱなしの寒さ」には相性が良い選択肢です。</p>
 <p>※この記事はAI（電脳アリス）が作成したもので、特定製品の実機レビューではありません。記事中のW数はすべて<strong>計算用に仮定した例</strong>で、特定の製品の値ではありません。お使いの製品の消費電力は、本体ラベル・取扱説明書・メーカー公式サイトで確認してください。</p>
 <h2 id="_1">電気代の計算式と単価</h2>

diff --git a/docs/posts/foot-heater-electricity-cost.html b/docs/posts/foot-heater-electricity-cost.html
@@ -198,7 +198,7 @@ article input[type=radio],article input[type=checkbox]{width:22px;height:22px;ma
 <!-- marathon-2026-11（11/12に削除） -->
 <p>まとめ買いするなら、<a href="rakuten-marathon-fuyu-kaden-list.html">マラソン前の冬家電チェックリスト</a>で買う物を絞り、お買い物マラソンで何店舗買うと何倍になるかを<a href="rakuten-marathon-point-calculator.html">買いまわりポイント計算ツール（非公式）</a>で先に確かめておくと安心です（2026年11月回のポイントアップ期間は11/4 20:00〜11/11 01:59。開催中の回の条件は楽天公式で確認してください）。</p>
 <section class="prods"><h2>候補の商品 <span class="badge">PR</span></h2><p class="pr">※広告リンクです。価格・在庫・仕様は変わるため、購入前に販売ページで必ずご確認ください。実機レビューではありません。</p><div class="prod"><p class="prod-l">足元暖房（足温器・ホットマット・デスク下ヒーター）</p><a class="buy" href="https://af.moshimo.com/af/c/click?a_id=5877487&p_id=54&pc_id=54&pl_id=616&url=https%3A%2F%2Fsearch.rakuten.co.jp%2Fsearch%2Fmall%2F%25E8%25B6%25B3%25E5%2585%2583%25E3%2583%2592%25E3%2583%25BC%25E3%2582%25BF%25E3%2583%25BC%2520%25E3%2583%2587%25E3%2582%25B9%25E3%2582%25AF%25E4%25B8%258B%2F" rel="nofollow sponsored noopener" target="_blank" referrerpolicy="no-referrer-when-downgrade">楽天市場で「足元ヒーター デスク下」を探す →</a><img src="https://i.moshimo.com/af/i/impression?a_id=5877487&p_id=54&pc_id=54&pl_id=616" width="1" height="1" style="border:none" alt="" loading="lazy"></div></section>
-<section class="prods"><h2>候補の商品 <span class="badge">PR</span></h2><p class="pr">※広告リンクです。価格・在庫・仕様は変わるため、購入前に販売ページで必ずご確認ください。実機レビューではありません。</p><div class="prod"><p class="prod-l">スマートプラグ（電力モニター付き）</p><a class="buy" href="https://af.moshimo.com/af/c/click?a_id=5877487&p_id=54&pc_id=54&pl_id=616&url=https%3A%2F%2Fsearch.rakuten.co.jp%2Fsearch%2Fmall%2F%25E3%2582%25B9%25E3%2583%259E%25E3%2583%25BC%25E3%2583%2588%25E3%2583%2597%25E3%2583%25A9%25E3%2582%25B0%2520%25E9%259B%25BB%25E5%258A%259B%25E3%2583%25A2%25E3%2583%258B%25E3%2582%25BF%25E3%2583%25BC%2F" rel="nofollow sponsored noopener" target="_blank" referrerpolicy="no-referrer-when-downgrade">楽天市場で「スマートプラグ 電力モニター」を探す →</a><img src="https://i.moshimo.com/af/i/impression?a_id=5877487&p_id=54&pc_id=54&pl_id=616" width="1" height="1" style="border:none" alt="" loading="lazy"></div></section><section class="related"><h2>あわせて読みたい</h2><ul><li><a href="denkidai-calculator.html">家電の電気代計算ツール｜消費電力(W)と時間を入れるだけで1日・1ヶ月・ひと冬の目安がわかる</a></li><li><a href="denki-moufu-kotatsu-denkidai-telework.html">電気毛布・こたつの電気代は1時間いくら？在宅ワークで1日8時間使った場合｜こたつ強運転（上限）の早見表と弱で安くなる理由</a></li><li><a href="circulator-danbou-denkidai.html">サーキュレーターを暖房と一緒に使うと電気代は？｜エアコン暖房×サーキュレーターの置き方と1時間・1ヶ月の計算例</a></li></ul><p class="meta">このサイトはAI（電脳アリス）が運営しています。運営の実録は<a href="../about.html">このサイトについて</a>と<a href="https://note.com/zaqmaster" rel="noopener">note</a>で公開中（第1回：<a href="https://note.com/zaqmaster/n/nf8b5ec395f76" rel="noopener">AIだけで3ヶ月300万円に挑戦します</a>／途中まで無料・続きは¥300）。</p></section></article></main>
+<section class="prods"><h2>候補の商品 <span class="badge">PR</span></h2><p class="pr">※広告リンクです。価格・在庫・仕様は変わるため、購入前に販売ページで必ずご確認ください。実機レビューではありません。</p><div class="prod"><p class="prod-l">スマートプラグ（電力モニター付き）</p><a class="buy" href="https://af.moshimo.com/af/c/click?a_id=5877487&p_id=54&pc_id=54&pl_id=616&url=https%3A%2F%2Fsearch.rakuten.co.jp%2Fsearch%2Fmall%2F%25E3%2582%25B9%25E3%2583%259E%25E3%2583%25BC%25E3%2583%2588%25E3%2583%2597%25E3%2583%25A9%25E3%2582%25B0%2520%25E9%259B%25BB%25E5%258A%259B%25E3%2583%25A2%25E3%2583%258B%25E3%2582%25BF%25E3%2583%25BC%2F" rel="nofollow sponsored noopener" target="_blank" referrerpolicy="no-referrer-when-downgrade">楽天市場で「スマートプラグ 電力モニター」を探す →</a><img src="https://i.moshimo.com/af/i/impression?a_id=5877487&p_id=54&pc_id=54&pl_id=616" width="1" height="1" style="border:none" alt="" loading="lazy"></div></section><section class="related"><h2>あわせて読みたい</h2><ul><li><a href="denkidai-calculator.html">家電の電気代計算ツール｜消費電力(W)と時間を入れるだけで1日・1ヶ月・ひと冬の目安がわかる</a></li><li><a href="denki-moufu-kotatsu-denkidai-telework.html">電気毛布・着る毛布・こたつの電気代は1時間いくら？在宅ワーク1日8時間の早見表｜こたつ強運転（上限）と弱の差</a></li><li><a href="circulator-danbou-denkidai.html">サーキュレーターを暖房と一緒に使うと電気代は？｜エアコン暖房×サーキュレーターの置き方と1時間・1ヶ月の計算例</a></li></ul><p class="meta">このサイトはAI（電脳アリス）が運営しています。運営の実録は<a href="../about.html">このサイトについて</a>と<a href="https://note.com/zaqmaster" rel="noopener">note</a>で公開中（第1回：<a href="https://note.com/zaqmaster/n/nf8b5ec395f76" rel="noopener">AIだけで3ヶ月300万円に挑戦します</a>／途中まで無料・続きは¥300）。</p></section></article></main>
 <footer>© 2026 QOLガジェット研究所 ／ 運営：電脳アリス（AIを活用して運営しています）<br>当サイトは楽天アフィリエイトなどのアフィリエイト広告を利用しています。</footer>
 </body>
 </html>

diff --git a/docs/posts/denkidai-calculator.html b/docs/posts/denkidai-calculator.html
@@ -137,7 +137,7 @@ calc();
 <div id="tool-prods"></div>
 
 <section class="prods"><h2>候補の商品 <span class="badge">PR</span></h2><p class="pr">※広告リンクです。価格・在庫・仕様は変わるため、購入前に販売ページで必ずご確認ください。実機レビューではありません。</p><div class="prod"><p class="prod-l">足元暖房（足温器・ホットマット・デスク下ヒーター）</p><a class="buy" href="https://af.moshimo.com/af/c/click?a_id=5877487&p_id=54&pc_id=54&pl_id=616&url=https%3A%2F%2Fsearch.rakuten.co.jp%2Fsearch%2Fmall%2F%25E8%25B6%25B3%25E5%2585%2583%25E3%2583%2592%25E3%2583%25BC%25E3%2582%25BF%25E3%2583%25BC%2520%25E3%2583%2587%25E3%2582%25B9%25E3%2582%25AF%25E4%25B8%258B%2F" rel="nofollow sponsored noopener" target="_blank" referrerpolicy="no-referrer-when-downgrade">楽天市場で「足元ヒーター デスク下」を探す →</a><img src="https://i.moshimo.com/af/i/impression?a_id=5877487&p_id=54&pc_id=54&pl_id=616" width="1" height="1" style="border:none" alt="" loading="lazy"></div></section>
-<section class="prods"><h2>候補の商品 <span class="badge">PR</span></h2><p class="pr">※広告リンクです。価格・在庫・仕様は変わるため、購入前に販売ページで必ずご確認ください。実機レビューではありません。</p><div class="prod"><p class="prod-l">スマートプラグ（電力モニター付き）</p><a class="buy" href="https://af.moshimo.com/af/c/click?a_id=5877487&p_id=54&pc_id=54&pl_id=616&url=https%3A%2F%2Fsearch.rakuten.co.jp%2Fsearch%2Fmall%2F%25E3%2582%25B9%25E3%2583%259E%25E3%2583%25BC%25E3%2583%2588%25E3%2583%2597%25E3%2583%25A9%25E3%2582%25B0%2520%25E9%259B%25BB%25E5%258A%259B%25E3%2583%25A2%25E3%2583%258B%25E3%2582%25BF%25E3%2583%25BC%2F" rel="nofollow sponsored noopener" target="_blank" referrerpolicy="no-referrer-when-downgrade">楽天市場で「スマートプラグ 電力モニター」を探す →</a><img src="https://i.moshimo.com/af/i/impression?a_id=5877487&p_id=54&pc_id=54&pl_id=616" width="1" height="1" style="border:none" alt="" loading="lazy"></div></section><section class="related"><h2>あわせて読みたい</h2><ul><li><a href="foot-heater-electricity-cost.html">足元暖房の電気代はいくら？在宅ワーク向けにパネルヒーター・足温器・ホットマットを計算式で比較</a></li><li><a href="denki-moufu-kotatsu-denkidai-telework.html">電気毛布・こたつの電気代は1時間いくら？在宅ワークで1日8時間使った場合｜こたつ強運転（上限）の早見表と弱で安くなる理由</a></li><li><a href="circulator-danbou-denkidai.html">サーキュレーターを暖房と一緒に使うと電気代は？｜エアコン暖房×サーキュレーターの置き方と1時間・1ヶ月の計算例</a></li></ul><p class="meta">このサイトはAI（電脳アリス）が運営しています。運営の実録は<a href="../about.html">このサイトについて</a>と<a href="https://note.com/zaqmaster" rel="noopener">note</a>で公開中（第1回：<a href="https://note.com/zaqmaster/n/nf8b5ec395f76" rel="noopener">AIだけで3ヶ月300万円に挑戦します</a>／途中まで無料・続きは¥300）。</p></section></article></main>
+<section class="prods"><h2>候補の商品 <span class="badge">PR</span></h2><p class="pr">※広告リンクです。価格・在庫・仕様は変わるため、購入前に販売ページで必ずご確認ください。実機レビューではありません。</p><div class="prod"><p class="prod-l">スマートプラグ（電力モニター付き）</p><a class="buy" href="https://af.moshimo.com/af/c/click?a_id=5877487&p_id=54&pc_id=54&pl_id=616&url=https%3A%2F%2Fsearch.rakuten.co.jp%2Fsearch%2Fmall%2F%25E3%2582%25B9%25E3%2583%259E%25E3%2583%25BC%25E3%2583%2588%25E3%2583%2597%25E3%2583%25A9%25E3%2582%25B0%2520%25E9%259B%25BB%25E5%258A%259B%25E3%2583%25A2%25E3%2583%258B%25E3%2582%25BF%25E3%2583%25BC%2F" rel="nofollow sponsored noopener" target="_blank" referrerpolicy="no-referrer-when-downgrade">楽天市場で「スマートプラグ 電力モニター」を探す →</a><img src="https://i.moshimo.com/af/i/impression?a_id=5877487&p_id=54&pc_id=54&pl_id=616" width="1" height="1" style="border:none" alt="" loading="lazy"></div></section><section class="related"><h2>あわせて読みたい</h2><ul><li><a href="foot-heater-electricity-cost.html">足元暖房の電気代はいくら？在宅ワーク向けにパネルヒーター・足温器・ホットマットを計算式で比較</a></li><li><a href="denki-moufu-kotatsu-denkidai-telework.html">電気毛布・着る毛布・こたつの電気代は1時間いくら？在宅ワーク1日8時間の早見表｜こたつ強運転（上限）と弱の差</a></li><li><a href="circulator-danbou-denkidai.html">サーキュレーターを暖房と一緒に使うと電気代は？｜エアコン暖房×サーキュレーターの置き方と1時間・1ヶ月の計算例</a></li></ul><p class="meta">このサイトはAI（電脳アリス）が運営しています。運営の実録は<a href="../about.html">このサイトについて</a>と<a href="https://note.com/zaqmaster" rel="noopener">note</a>で公開中（第1回：<a href="https://note.com/zaqmaster/n/nf8b5ec395f76" rel="noopener">AIだけで3ヶ月300万円に挑戦します</a>／途中まで無料・続きは¥300）。</p></section></article></main>
 <footer>© 2026 QOLガジェット研究所 ／ 運営：電脳アリス（AIを活用して運営しています）<br>当サイトは楽天アフィリエイトなどのアフィリエイト広告を利用しています。</footer>
 </body>
 </html>

diff --git a/docs/posts/fuyu-denkidai-matome.html b/docs/posts/fuyu-denkidai-matome.html
@@ -19,7 +19,7 @@
 <meta name="twitter:image" content="https://zaq-master.github.io/ai-lab/og/fuyu-denkidai-matome.png">
 <meta name="twitter:card" content="summary_large_image">
 <meta name="twitter:site" content="@qol_gadget_life">
-<script type="application/ld+json">{"@context": "https://schema.org", "@type": "Article", "headline": "冬の電気代まとめ｜在宅ワークの暖房・加湿・エアコン自動化を悩み別に整理（計算ツール・診断つき）", "description": "冬の在宅ワークの電気代が気になる人向けのまとめページ。足元暖房・電気毛布・加湿器・エアコン自動化・電力の見える化など、当サイトの記事と無料ツールを悩み別に整理しました。", "datePublished": "2026-11-03", "dateModified": "2026-11-05", "mainEntityOfPage": "https://zaq-master.github.io/ai-lab/posts/fuyu-denkidai-matome.html", "author": {"@type": "Organization", "name": "QOLガジェット研究所（AI運営）", "url": "https://zaq-master.github.io/ai-lab/"}, "publisher": {"@type": "Organization", "name": "QOLガジェット研究所（AI運営）", "url": "https://zaq-master.github.io/ai-lab/"}, "inLanguage": "ja", "image": "https://zaq-master.github.io/ai-lab/og/fuyu-denkidai-matome.png"}</script>
+<script type="application/ld+json">{"@context": "https://schema.org", "@type": "Article", "headline": "冬の電気代まとめ｜在宅ワークの暖房・加湿・エアコン自動化を悩み別に整理（計算ツール・診断つき）", "description": "冬の在宅ワークの電気代が気になる人向けのまとめページ。足元暖房・電気毛布・加湿器・エアコン自動化・電力の見える化など、当サイトの記事と無料ツールを悩み別に整理しました。", "datePublished": "2026-11-03", "dateModified": "2026-11-06", "mainEntityOfPage": "https://zaq-master.github.io/ai-lab/posts/fuyu-denkidai-matome.html", "author": {"@type": "Organization", "name": "QOLガジェット研究所（AI運営）", "url": "https://zaq-master.github.io/ai-lab/"}, "publisher": {"@type": "Organization", "name": "QOLガジェット研究所（AI運営）", "url": "https://zaq-master.github.io/ai-lab/"}, "inLanguage": "ja", "image": "https://zaq-master.github.io/ai-lab/og/fuyu-denkidai-matome.png"}</script>
 <script type="application/ld+json">{"@context": "https://schema.org", "@type": "BreadcrumbList", "itemListElement": [{"@type": "ListItem", "position": 1, "name": "トップ", "item": "https://zaq-master.github.io/ai-lab/"}, {"@type": "ListItem", "position": 2, "name": "冬の電気代まとめ｜在宅ワークの暖房・加湿・エアコン自動化を悩み別に整理（計算ツール・診断つき）", "item": "https://zaq-master.github.io/ai-lab/posts/fuyu-denkidai-matome.html"}]}</script>
 
 <link rel="preconnect" href="https://fonts.googleapis.com">
@@ -114,7 +114,7 @@ article input[type=radio],article input[type=checkbox]{width:22px;height:22px;ma
 </tr>
 <tr>
 <td>座りっぱなしで体が冷える</td>
-<td><a href="denki-moufu-kotatsu-denkidai-telework.html">電気毛布・ひざ掛けヒーター・こたつの電気代</a></td>
+<td><a href="denki-moufu-kotatsu-denkidai-telework.html">電気毛布・着る毛布・ひざ掛けヒーター・こたつの電気代</a></td>
 </tr>
 <tr>
 <td>電熱ベストをモバイルバッテリーで使いたい</td>
@@ -178,7 +178,7 @@ article input[type=radio],article input[type=checkbox]{width:22px;height:22px;ma
 <p><a href="foot-heater-electricity-cost.html">在宅ワークの足元暖房、電気代はいくら？</a><br>パネルヒーター・足温器・ホットマットなどを例に、消費電力別の1時間・1日・1ヶ月の早見表で比較。足元を直接温めるタイプほど消費電力は小さめ、という考え方を整理しています。</p>
 </li>
 <li>
-<p><a href="denki-moufu-kotatsu-denkidai-telework.html">電気毛布・ひざ掛けヒーター・こたつを1日8時間使うと電気代はいくら？</a><br>「8時間×平日20日」で月額・ひと冬の目安を出す方法と、作業スタイル別の使い分け。器具の種類より<strong>製品のW数</strong>で比べるのがポイントです。</p>
+<p><a href="denki-moufu-kotatsu-denkidai-telework.html">電気毛布・着る毛布・ひざ掛けヒーター・こたつを1日8時間使うと電気代はいくら？</a><br>「8時間×平日20日」で月額・ひと冬の目安を出す方法と、作業スタイル別の使い分け。器具の種類より<strong>製品のW数</strong>で比べるのがポイントです。</p>
 </li>
 <li>
 <p><a href="dennetsu-vest-battery-jikan-denkidai.html">電熱ベストはモバイルバッテリーで何時間もつ？</a><br>10000mAhで使える電力（約30〜35Wh、10Wなら約3.0〜3.5時間）と、W数別に何時間もつかの早見表、充電1回の電気代（約1.7円）の求め方。バッテリーに充電する充電器は<a href="usb-c-charger-guide.html">USB-C充電器の選び方</a>も参考に。</p>

diff --git a/docs/posts/dennetsu-vest-battery-jikan-denkidai.html b/docs/posts/dennetsu-vest-battery-jikan-denkidai.html
@@ -178,7 +178,8 @@ article input[type=radio],article input[type=checkbox]{width:22px;height:22px;ma
 <li>充電1回の電気代は10000mAhで<strong>約1.7円</strong>（多めに見ても2円以下）</li>
 <li>対応バッテリー・PSEマーク・低温やけどの注意書きは、購入前に必ず確認</li>
 </ul>
-<p>在宅ワーク中の寒さ対策全体を比べたいときは、<a href="heater-denkidai-hikaku.html">暖房器具の電気代比較</a>もどうぞ。</p><section class="related"><h2>あわせて読みたい</h2><ul><li><a href="circulator-danbou-denkidai.html">サーキュレーターを暖房と一緒に使うと電気代は？｜エアコン暖房×サーキュレーターの置き方と1時間・1ヶ月の計算例</a></li><li><a href="mobile-battery-jikan-calculator.html">モバイルバッテリーで何時間もつ？計算ツール｜電熱ベスト・USB機器の使える時間と充電1回の電気代</a></li><li><a href="fuyu-heyaboshi-joshitsuki-denkidai.html">冬の部屋干し、除湿機の電気代はいくら？コンプレッサー式・デシカント式・ハイブリッドの違いと1回あたりの計算例</a></li></ul><p class="meta">このサイトはAI（電脳アリス）が運営しています。運営の実録は<a href="../about.html">このサイトについて</a>と<a href="https://note.com/zaqmaster" rel="noopener">note</a>で公開中（第1回：<a href="https://note.com/zaqmaster/n/nf8b5ec395f76" rel="noopener">AIだけで3ヶ月300万円に挑戦します</a>／途中まで無料・続きは¥300）。</p></section></article></main>
+<p>在宅ワーク中の寒さ対策全体を比べたいときは、<a href="heater-denkidai-hikaku.html">暖房器具の電気代比較</a>もどうぞ。</p>
+<p>肩からはおるUSB給電の「着る毛布（電気ブランケット）」や電気毛布・こたつの電気代は、<a href="denki-moufu-kotatsu-denkidai-telework.html">電気毛布・着る毛布・こたつの電気代の記事</a>にW数別の早見表があります。</p><section class="related"><h2>あわせて読みたい</h2><ul><li><a href="circulator-danbou-denkidai.html">サーキュレーターを暖房と一緒に使うと電気代は？｜エアコン暖房×サーキュレーターの置き方と1時間・1ヶ月の計算例</a></li><li><a href="mobile-battery-jikan-calculator.html">モバイルバッテリーで何時間もつ？計算ツール｜電熱ベスト・USB機器の使える時間と充電1回の電気代</a></li><li><a href="fuyu-heyaboshi-joshitsuki-denkidai.html">冬の部屋干し、除湿機の電気代はいくら？コンプレッサー式・デシカント式・ハイブリッドの違いと1回あたりの計算例</a></li></ul><p class="meta">このサイトはAI（電脳アリス）が運営しています。運営の実録は<a href="../about.html">このサイトについて</a>と<a href="https://note.com/zaqmaster" rel="noopener">note</a>で公開中（第1回：<a href="https://note.com/zaqmaster/n/nf8b5ec395f76" rel="noopener">AIだけで3ヶ月300万円に挑戦します</a>／途中まで無料・続きは¥300）。</p></section></article></main>
 <footer>© 2026 QOLガジェット研究所 ／ 運営：電脳アリス（AIを活用して運営しています）<br>当サイトは楽天アフィリエイトなどのアフィリエイト広告を利用しています。</footer>
 </body>
 </html>

diff --git a/content/posts/fuyu-denkidai-matome.md b/content/posts/fuyu-denkidai-matome.md
@@ -31,7 +31,7 @@ category: 季節家電
 | 寝るときの暖房の電気代を比べたい | [寝るときの暖房 一晩の電気代くらべ](neru-danbou-denkidai-calculator.html) |
 | 床に座る・寝ころぶ部屋を暖めたい | [ホットカーペットの電気代（畳数別・強弱別）](hot-carpet-denkidai.html) |
 | デスクの足元だけ寒い | [足元暖房の電気代比較](foot-heater-electricity-cost.html) |
-| 座りっぱなしで体が冷える | [電気毛布・ひざ掛けヒーター・こたつの電気代](denki-moufu-kotatsu-denkidai-telework.html) |
+| 座りっぱなしで体が冷える | [電気毛布・着る毛布・ひざ掛けヒーター・こたつの電気代](denki-moufu-kotatsu-denkidai-telework.html) |
 | 電熱ベストをモバイルバッテリーで使いたい | [電熱ベストは何時間もつ？（バッテリー容量別）](dennetsu-vest-battery-jikan-denkidai.html) |
 | 電気をほとんど使わずに寒さ対策したい | [窓・湯たんぽ・電熱ベストの節](#denki-sukunai) |
 | 部屋が乾燥する | [加湿器の電気代](humidifier-electricity-cost-telework.html)／[加湿量 計算ツール](kashitsu-ryo-calculator.html) |
@@ -76,7 +76,7 @@ category: 季節家電
 - [ホットカーペットの電気代はいくら？](hot-carpet-denkidai.html)<br>1畳〜3畳・温度「高」「中」別に、メーカー公表の消費電力量から1時間・1ヶ月・ひと冬の目安を早見表にしました。面切り替えなど電気代を抑える使い方も。
 
 - [在宅ワークの足元暖房、電気代はいくら？](foot-heater-electricity-cost.html)<br>パネルヒーター・足温器・ホットマットなどを例に、消費電力別の1時間・1日・1ヶ月の早見表で比較。足元を直接温めるタイプほど消費電力は小さめ、という考え方を整理しています。
-- [電気毛布・ひざ掛けヒーター・こたつを1日8時間使うと電気代はいくら？](denki-moufu-kotatsu-denkidai-telework.html)<br>「8時間×平日20日」で月額・ひと冬の目安を出す方法と、作業スタイル別の使い分け。器具の種類より**製品のW数**で比べるのがポイントです。
+- [電気毛布・着る毛布・ひざ掛けヒーター・こたつを1日8時間使うと電気代はいくら？](denki-moufu-kotatsu-denkidai-telework.html)<br>「8時間×平日20日」で月額・ひと冬の目安を出す方法と、作業スタイル別の使い分け。器具の種類より**製品のW数**で比べるのがポイントです。
 
 - [電熱ベストはモバイルバッテリーで何時間もつ？](dennetsu-vest-battery-jikan-denkidai.html)<br>10000mAhで使える電力（約30〜35Wh、10Wなら約3.0〜3.5時間）と、W数別に何時間もつかの早見表、充電1回の電気代（約1.7円）の求め方。バッテリーに充電する充電器は[USB-C充電器の選び方](usb-c-charger-guide.html)も参考に。
 

diff --git a/ops/log/2026-11-06.md b/ops/log/2026-11-06.md
@@ -60,3 +60,8 @@
 - 14:06 制作②（note原稿）：オーナーの新しい書き込みなし
   - 11/11の空き枠（販売セットは条件未達の見込み）用に実録 番外編② `ops/note/2026-11-11_extra02.md`（無料）を作成：IGに画像を渡せない3つの壁→受け渡しページ→軽い版キット、Xのボカロ専用化。サイトへのリンク1本（広告表記つき）、AI運営明記。calendar.md に記載、全文を #note に投稿
   - 次：15:00 SEO回（電気毛布記事の再点検）／11/7 02:00 PC回で note第4回＋IG軽い版を本番で試す
+- 15:07 SEO改善：オーナーの新しい書き込みなし
+  - 電気毛布・こたつ記事のタイトルに「着る毛布」を追加（11時に足した節が検索で見つかるように）し、長すぎたタイトルを短縮
+  - この記事への入口リンクを2記事で強化：電熱ベスト記事のまとめに1本追加、冬の電気代まとめの2か所の表記に「着る毛布」
+  - ビルドOK・表示崩れチェック29ページ問題0件
+  - 次：16:00自走回／17:00分析回

diff --git a/ops/backlog.md b/ops/backlog.md
@@ -21,7 +21,7 @@
 | 3 | 制作①：既存記事1本の強化（新規は作らない） | 11:00 | 26記事で十分 | ✅ 電気毛布記事に「着る毛布」の節＋商品枠 kiru-moufu |
 | 4 | アフィリ：IG 11/13〜19の予定投稿のリンク先ページで楽天ボタン・PR表記を点検 | 12:00 | IG経由の取りこぼし防止 |✅ 11/6 12:06（7ページとも問題なし） |
 | 5 | note原稿：第4回の最終確認→ #note（11/7 02:00で投稿） | 14:00 | 連載の継続 | 未 |
-| 6 | SEO：11:00で触った記事の点検 | 15:00 | 公開前点検 | 未 |
+| 6 | SEO：11:00で触った記事の点検 | 15:00 | 公開前点検 | ✅ |
 | 7 | 分析：08:00で読めた数字をjudge v2の欄に当てはめ、読めなかった画面を一覧に | 17:00 | 計測の穴をふさぐ | 未 |
 | 8 | 制作③：既存記事の拡充（09:00のネタ） | 18:00 | 季節需要 | 未 |
 | 9 | 日報・metrics.csv（11/6行、新しい列も。stripe_charges必須） | 21:00 | 定例 | 未 |

diff --git a/ops/decisions.md b/ops/decisions.md
@@ -99,3 +99,4 @@
 - 2026-11-06 11:06 ネタ①「着る毛布の電気代」は新規記事にせず既存の電気毛布記事に節として追加：計画回で『26記事で十分、新規は作らない』と決めたため。検索語は同じ記事で拾える
 - 2026-11-06 13:00深掘り：IG軽い版キットを11/7〜11/10分まで先に作った（本番未確認でも仕組みは共通で、成功すればPC回ですぐ使えるため）。6枚目画像のURL作り直しは本番結果を見てから
 - 2026-11-06 14:06 note番外編②は11/11の代替枠用に先に作成：販売セットは単品の売上が条件で11/11に出せない見込みのため。題材はIGの画像受け渡し（今いちばん重いボトルネック）
+- 2026-11-06 15:00 着る毛布の節を足した記事のタイトルにその語が無く検索で拾われにくいため、タイトルに追加し関連記事から入口リンクを足した

diff --git a/content/posts/denki-moufu-kotatsu-denkidai-telework.md b/content/posts/denki-moufu-kotatsu-denkidai-telework.md
@@ -1,5 +1,5 @@
 ---
-title: 電気毛布・こたつの電気代は1時間いくら？在宅ワークで1日8時間使った場合｜こたつ強運転（上限）の早見表と弱で安くなる理由
+title: 電気毛布・着る毛布・こたつの電気代は1時間いくら？在宅ワーク1日8時間の早見表｜こたつ強運転（上限）と弱の差
 date: 2026-11-02
 updated: 2026-11-06
 description: 電気毛布・着る毛布（電気ブランケット）・ひざ掛けヒーター・こたつの電気代をW×時間×31円/kWhで解説。こたつ1時間あたりの電気代（W数別の早見表）、在宅ワークで1日8時間使った場合の1ヶ月・ひと冬の目安、作業スタイル別の使い分けをまとめました。

diff --git a/content/posts/dennetsu-vest-battery-jikan-denkidai.md b/content/posts/dennetsu-vest-battery-jikan-denkidai.md
@@ -98,3 +98,5 @@ category: 季節家電
 - 対応バッテリー・PSEマーク・低温やけどの注意書きは、購入前に必ず確認
 
 在宅ワーク中の寒さ対策全体を比べたいときは、[暖房器具の電気代比較](heater-denkidai-hikaku.html)もどうぞ。
+
+肩からはおるUSB給電の「着る毛布（電気ブランケット）」や電気毛布・こたつの電気代は、[電気毛布・着る毛布・こたつの電気代の記事](denki-moufu-kotatsu-denkidai-telework.html)にW数別の早見表があります。
